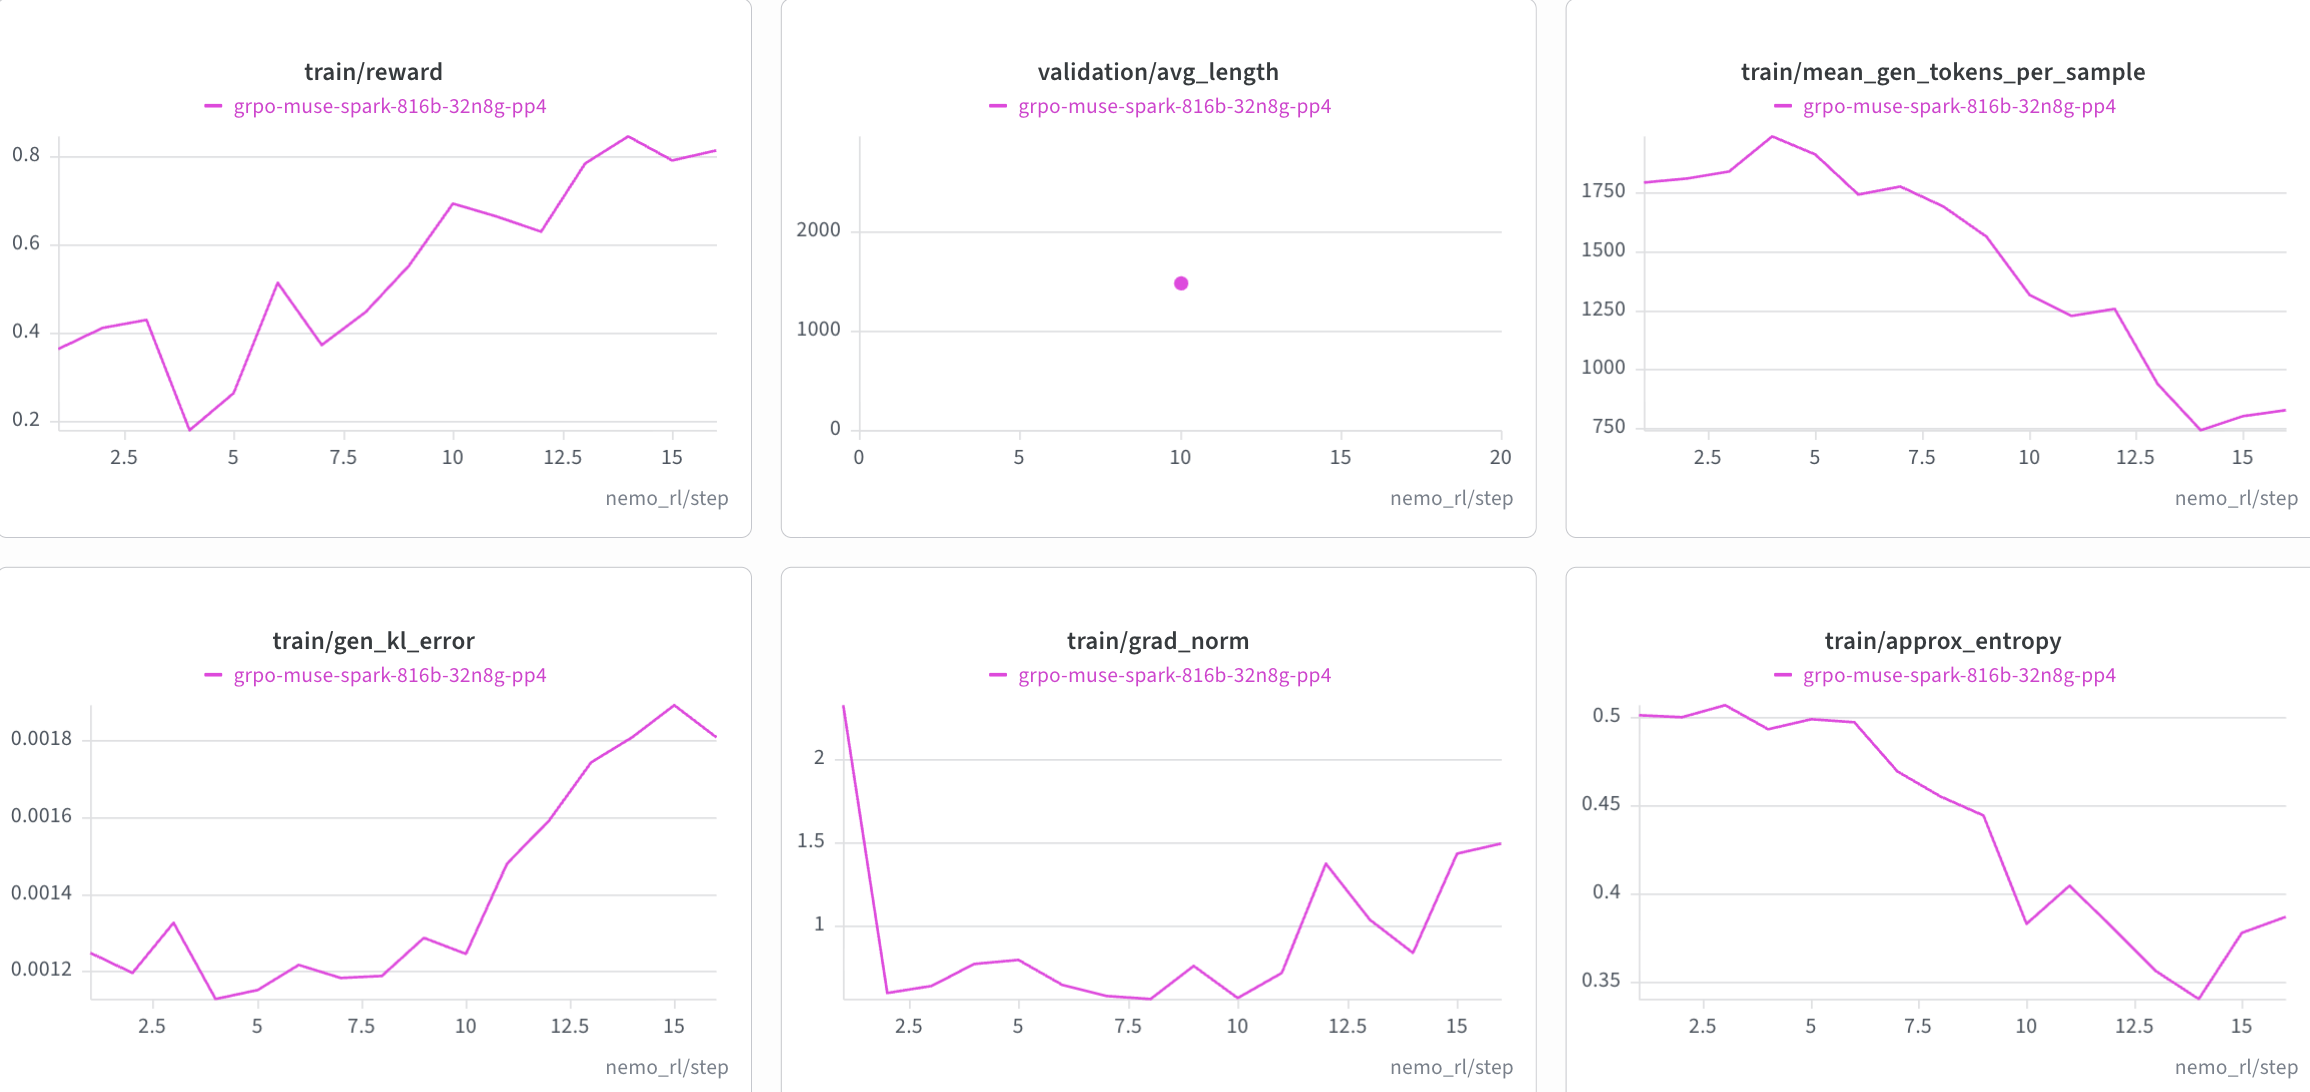
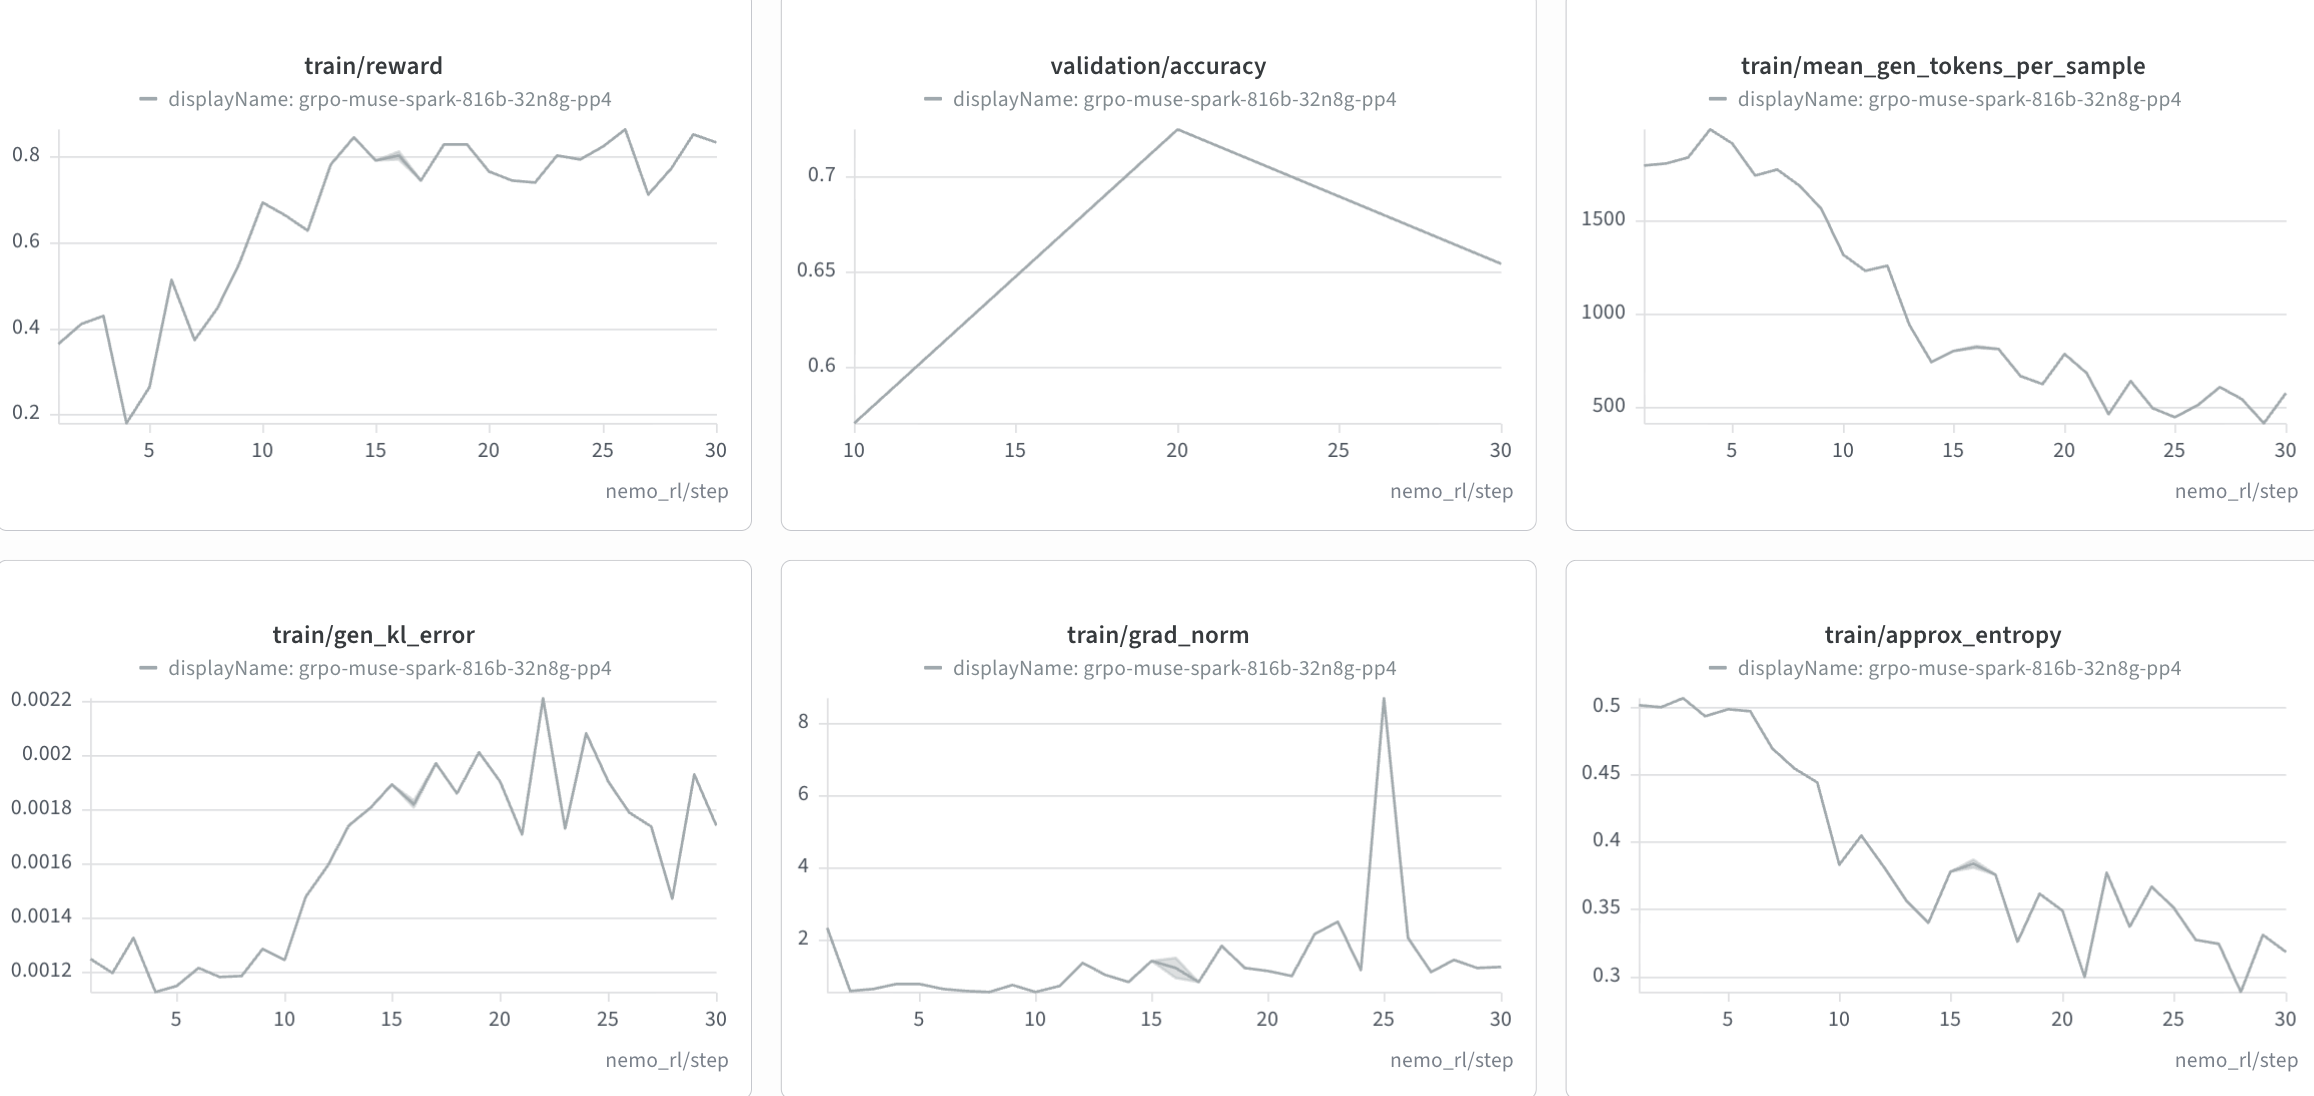
docs: update Muse Spark training curves to 30 steps
Replace the 16-step curves with a 30-step run that adds validation
accuracy, and update the guide's description of the curves to match.

diff --git a/docs/guides/models/muse/muse-spark.md b/docs/guides/models/muse/muse-spark.md
@@ -166,17 +166,25 @@ generation KL error rises from about `1e-3` to about `0.25`.
 
 The following curves were produced with the reference PP4/EP64 configuration on
 the 32-node H100 allocation described above. They show training reward,
-validation response length, mean generated tokens per sample, generation KL
-error, gradient norm, and approximate entropy over the first 16 steps. Training
-reward rises from about 0.36 to about 0.8, while the mean response length drops
-from about 1,800 to about 800 tokens. Generation KL error stays below `2e-3`.
+validation accuracy, mean generated tokens per sample, generation KL error,
+gradient norm, and approximate entropy over the first 30 steps.
 
-![Muse-Spark-Open-816B-A42B GRPO training reward, validation average length, mean generated tokens per sample, generation KL error, gradient norm, and approximate entropy](../../../assets/muse-spark/grpo-muse-spark-open-816b-automodel.png)
+- Training reward rises from about 0.36 to about 0.8 by step 14 and stays
+  between about 0.7 and 0.85 afterwards.
+- AIME 2024 validation accuracy, evaluated every 10 steps, is about 0.57 at
+  step 10, 0.72 at step 20, and 0.65 at step 30.
+- Mean response length drops from about 1,800 to about 500 tokens, and
+  approximate entropy falls from about 0.5 to about 0.32.
+- Generation KL error stays below about `2.2e-3`.
+- Gradient norm stays mostly below 2.5, with one spike to about 8.7 at step 25
+  that recovers at the next step.
+
+![Muse-Spark-Open-816B-A42B GRPO training reward, validation accuracy, mean generated tokens per sample, generation KL error, gradient norm, and approximate entropy over 30 steps](../../../assets/muse-spark/grpo-muse-spark-open-816b-automodel.png)
 
 ## Known Limitations
 
-- **Short validation run**: The curves cover 16 training steps. Long-run
-  convergence and validation accuracy have not been established.
+- **Short validation run**: The curves cover 30 training steps with three
+  validation points. Long-run convergence has not been established.
 - **Hardware and deployment coverage**: Only colocated training and generation
   on H100 GPUs have been tested. Non-colocated deployments and Blackwell GPUs
   have not been validated.
